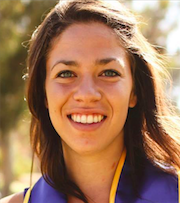
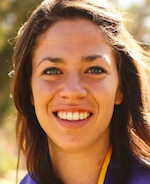
adjust more

diff --git a/assets/css/main.css b/assets/css/main.css
@@ -1707,13 +1707,13 @@
 		}
 
 		.image.avatar48 {
-			width: 180px;
-			height: 200px;
+			width: 150px;
+			height: 180px;
 			background: #f00;
 		}
 
 			.image.avatar48 img {
-				width: 180px;
+				width: 150px;
 				height: 180px;
 			}
 
